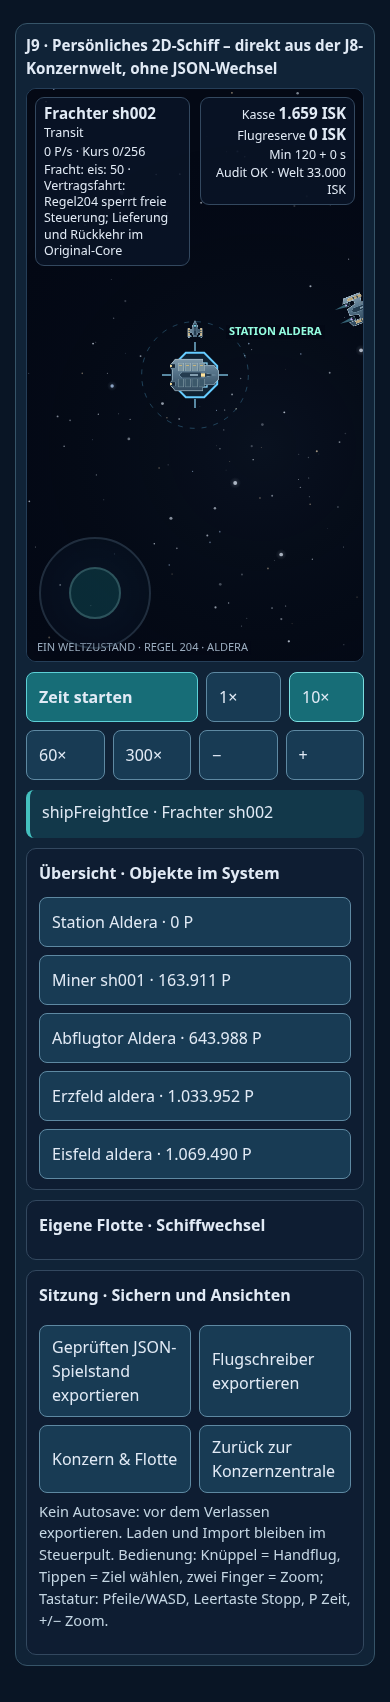
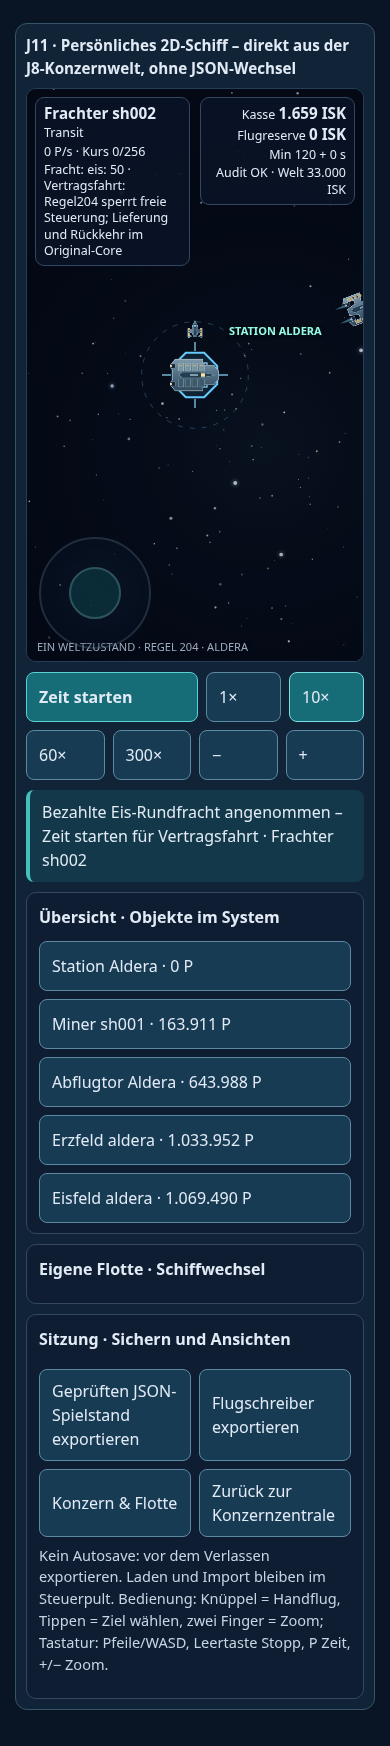
test(j11): record 296 Node22 checks and final Chromium screenshots

diff --git a/docs/J11_SPIELBARER_FRACHTER_ABNAHME.md b/docs/J11_SPIELBARER_FRACHTER_ABNAHME.md
@@ -22,7 +22,9 @@ Die Oberfläche bietet **F4 `shipFreightIce`** sowie **F6 `shipGateCheck`/`shipF
 
 * Node22.23.4: drei neue J11-Tests erfolgreich, darunter echter Lagerkauf, Fluglohn/Rückerstattung, Ziel-/Dockbefehle, drei Seeds, bitgleicher Original-Core-Replay, F4-Hin-/Rückfahrt mit 50 realen Eis, Vertragsablehnungen, Geld-/Kaufbeleg-/Eigentumsschutz und JSON-Roundtrip. Unterfinanzierung wird am Original-Core geprüft; manipulierte Finanzierung wird beim Import abgelehnt.
 * Chromium (lokaler Systembrowser): je **1180×820, 1024×768, 820×1180, 390×844**, echte Regel195-Kopie, 750-ISK-Frachterkauf, persönliches Cockpit, 40-ISK-Flugreserve, JSON-Export und unabhängiges Laden/Audit im Node-Core; zusätzlicher legal erzeugter F4-Vorbereitungsstand pro Größe, Vertragsannahme im Cockpit, 50 Eis an Bord und gesperrte Transitsteuerung. Keine JavaScript-Seitenfehler. Screenshots unter [j11-screenshots/](j11-screenshots/).
-* Vollständige Node22-Suite und bestehende Browserregressionen: Ergebnis wird nach Abschluss ergänzt. Zwei frühere redundante lokale Suite-Anläufe wurden beendet und zählen nicht als bestanden.
+* Vollständige Suite `node --test tests/*.test.mjs` mit Node22.23.4: **296/296 Tests, 0 Fehler, 0 Skips**, 224,159 Sekunden. Einschließlich bestehender deterministischer Wirtschafts-/Waren-/Schiffs-/Eigentumsaudits, Jäger-/Miner-/F6-/Save-/Schema-/Root-/NAS-Regressionen und 13×90-Bestandsprüfungen. Zwei frühere redundante lokale Suite-Anläufe wurden beendet und zählen nicht als bestanden.
+* Bestehender J9-Miner-Browser: Chromium 1180×820, 820×1180, 390×844 erfolgreich. `node scripts/build-w5-singlefile.mjs --check`: `W5_SINGLEFILE_OK`, 328726 Zeichen, 7 Styles, 15 Scripts, Pages-Navigation geprüft. Zusätzlicher Negativcheck: erneuter Frachterkauf bei leerem Aldera-Lager abgelehnt, Export bytegleich.
+* [Draft-PR #378](https://github.com/tobiasfranziskus/Check/pull/378); [Browser-CI](https://github.com/tobiasfranziskus/Check/actions/runs/43710365926), [Node22-CI](https://github.com/tobiasfranziskus/Check/actions/runs/43710365918): zum Zeitpunkt dieses Eintrags noch laufend, kein behaupteter Erfolg.
 * WebKit lokal nicht ausgeführt: Browser fehlt, Download von Playwright-/Microsoft-CDNs scheitert mit HTTP403 „Domain forbidden“. Bestehender CI-Matrixablauf um J11 und Screenshot-Artefakte erweitert; ein bloß konfigurierter Lauf zählt nicht als bestanden.
 
 ## Deterministische Referenzen
